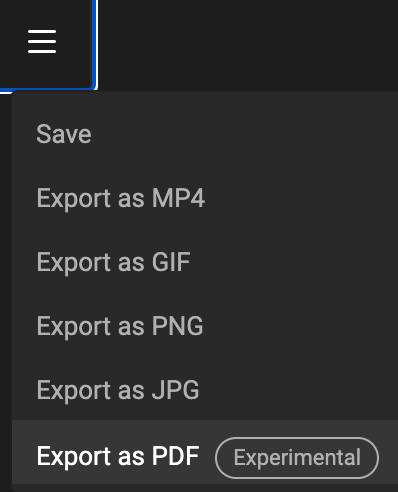
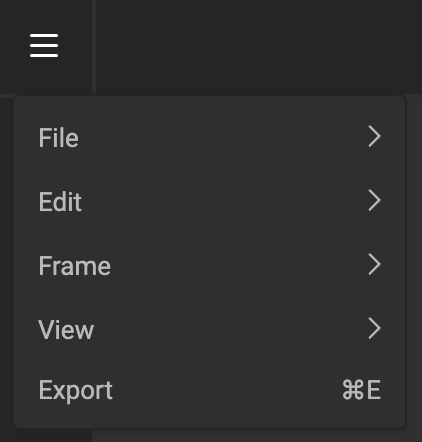
removed PDF export from experimental

diff --git a/docs/GraFx-Studio/concepts/output-settings/index.md b/docs/GraFx-Studio/concepts/output-settings/index.md
@@ -2,12 +2,14 @@
 
 "Output Settings" in GraFx Studio allows template designers and environment admins to tailor settings for various outputs like PDFs, images, and animations. 
 
-Users can fine-tune parameters such as scaling and quality, saving these configurations for consistent, efficient production. 
+![ui-full](outputsettings.png)
+
+Template designers and Environment Admins can fine-tune parameters such as scaling and quality, saving these configurations for consistent, efficient production. 
 
 This reduces repetitive setup for diverse output needs, streamlining workflow and minimizing errors. 
 
 ## API
 
-Look for the [REST API](/GraFx-Developers/#environment-api) calls in your Environment API to enable integrators to automate the making and managing of settings.
+Look for the [REST API](/GraFx-Developers/#environment-api) calls in your [Environment API](/GraFx-Developers/#environment-api) to enable integrators to automate the making and managing of settings.
 
 /api/v1/environment/{environment}/output/settings/xxx

diff --git a/docs/GraFx-Studio/guides/output/pdf/index.md b/docs/GraFx-Studio/guides/output/pdf/index.md
@@ -1,7 +1,4 @@
-# Output to PDF (experimental)
-
-!!! example "Experimental"
-	To give you early access to the latest and greatest, we will release some features as "**Experimental**". This means you can start playing around with this functionality, but you should not use this in production. Functionality might change in the final implementation.
+# Output to PDF
 
 ## Select the right Layout
 
@@ -23,8 +20,12 @@ If you were to remove all animations, as initially shown, the position and size 
 
 ## Output (to PDF)
 
-Click "Hamburger menu" and choose PDF (experimental) in the dropdown.
+Click "Hamburger menu" and Export.
 
-![Output](pdf.png)
+Choose the right [output setting](/GraFx-Studio/concepts/output-settings/), you have predefined as PDF output.
+
+![screenshot](pdf.png)
+
+![screenshot](export.png)
 
 When the export is ready, your browser will download the file into your downloads folder.
